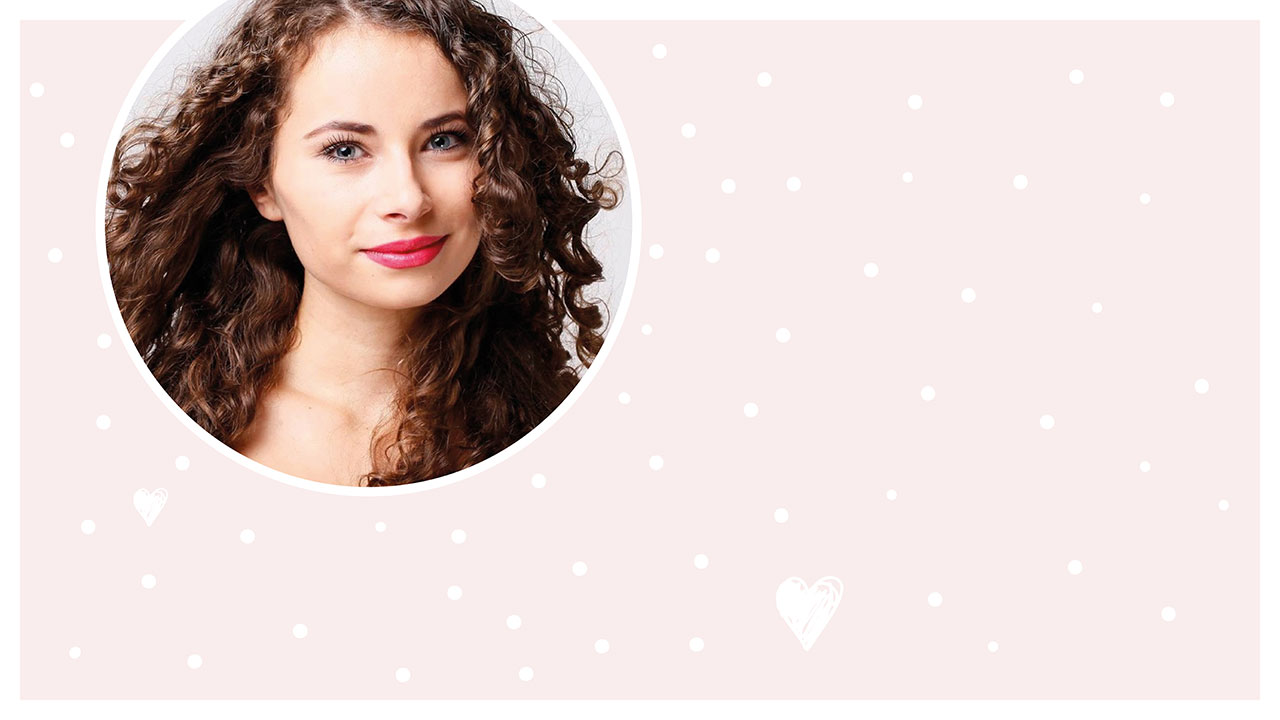
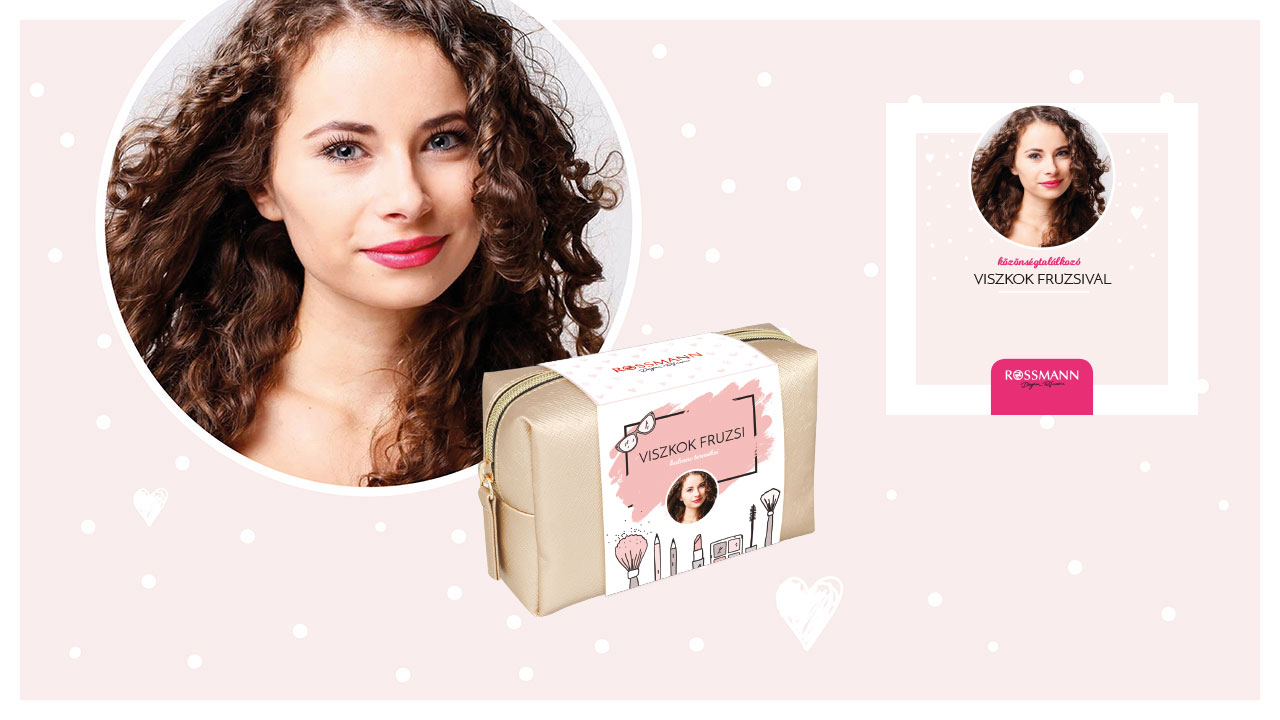
...

Changed region(s): [[0.375, 0.4278, 0.6562, 0.8556], [0.75, 0.1222, 0.875, 0.3972], [0.75, 0.4889, 0.875, 0.5806]]

diff --git a/css/style.css b/css/style.css
@@ -20,10 +20,10 @@ h1 {
 h2 {
 	color: #fff;
 	font-family: 'Arbutus Slab', serif;
-	font-size: 2.9em;
+	font-size: 1.9em;
 	letter-spacing: 1px;
 	line-height: 1.3;
-	border-bottom: 2.5px solid #fff;
+	/*border-bottom: 2.5px solid #fff;*/
 }
 
 h3 {
@@ -424,11 +424,15 @@ strong,
 	height: 300px;
 	text-align: center;
 	width: 100%;
+	position: relative;
 }
 
 .case-title {
-	display: inline-block;
-	margin-top: 25%;
+	background-color: rgba(1, 1, 1, .5);
+	bottom: 24px;
+	left: 0;
+	padding: 5px;
+	position: absolute;
 }
 
 .case a {
@@ -447,7 +451,7 @@ strong,
 .case-0,
 .case-1 {
 	background-color: #FFDC1D;
-	background: url(../img/pinterest-header.jpg) center center no-repeat;
+	background: url(../img/pinterest-header.jpg) top right no-repeat;
 	background-size: cover;
 }
 
@@ -457,19 +461,19 @@ strong,
 
 .case-2 {
 	background-color: #FF03B6;
-	background: url(../img/vf.jpg) top center no-repeat;
+	background: url(../img/vf.jpg) top left no-repeat;
 	background-size: cover;
 }
 
 .case-3 {
 	background-color: #B21485;
-	background: url(../img/sysdev-logo3.jpg) center center no-repeat;
+	background: url(../img/sysdev-logo3.jpg) top left no-repeat;
 	background-size: cover;
 }
 
 .case-4 {
 	background-color: #17CACC;
-	background: url(../img/kentaur-logo.jpg) center center no-repeat;
+	background: url(../img/kentaur-logo.jpg) top center no-repeat;
 	background-size: cover;
 }
 
@@ -816,12 +820,18 @@ strong,
 		margin: 0 auto 10px;
 	}
 
-	.case-title {
-		margin-top: 20%;
-	}
-
 	.case-img {
 		height: auto;
+	}
+
+	.case-0,
+	.case-2,
+	.case-3 {
+		background-position: top center;
+	}
+
+	.case-title {
+		font-size: 2.9em;
 	}
 
 	/*REFS > 750*/
@@ -937,17 +947,16 @@ strong,
 		background-color: transparent;
 	}
 
-	.case-title {
-		margin-top: 350px;
+	.case-0,
+	.case-2,
+	.case-3 {
+		height: 100vh;
+		width: 100vw;
 	}
 
 	.case-1 {
 		height: 100vh;
 		width: 100vw;
-	}
-
-	.case-2 {
-		background: url(../img/vf.jpg) top left no-repeat;
 	}
 
 	/*REFS > */

diff --git a/js/translate.js b/js/translate.js
@@ -11,6 +11,9 @@ var arrLang = {
     'act-head-3': 'Nagy adatmennyiségből készítünk kiadványokat',
     'act-text-3': 'Átgondolt és kipróbált automatizálási folyamataink segítségével pontosan és gyorsan készítünk kiadványokat.',
     'recent-work': 'a legújabbak',
+    'case1': 'Pinterest – illusztráció, display',
+    'case2': 'Viszkok Fruzsi – minikampány',
+    'case3': 'System Developers – logó redesign',
     'team-head': 'a csapat',
     'guszti': 'Szakács Gusztáv Bálint',
     'guszti-tags': '#can-do-attitude #kertészkedés #kommunikáció #felhasználóközpontú #design',
@@ -45,6 +48,9 @@ var arrLang = {
     'act-head-3': 'Schneller, leichter, zuverlässiger',
     'act-text-3': 'Mit unseren erprobten Tools zur automatisierten Medienproduktion, können wir Ihre Prospekte, Kataloge oder Preislisten zukünftig schneller und effizienter produzieren',
     'recent-work': 'aktuell',
+    'case1': 'Pinterest – Illustration, Display',
+    'case2': 'Viszkok Fruzsi – Mini-Kampagne',
+    'case3': 'System Developers – Logo redesign',
     'team-head': 'Das Team',
     'guszti': 'Gusztav Balint Szakacs',
     'guszti-tags': '#can-do-attitude #Gartenarbeit #Kommunikation #Benutzerorientiert #design',
@@ -79,6 +85,9 @@ var arrLang = {
     'act-head-3': 'We create stunnig layouts from big data',
     'act-text-3': 'Átgondolt és kipróbált automatizálási folyamataink segítségével pontosan és gyorsan készítünk kiadványokat.',
     'recent-work': 'recents',
+    'case1': 'Pinterest – illustration, display',
+    'case2': 'Viszkok Fruzsi – mini campaign',
+    'case3': 'System Developers – logo redesign',
     'team-head': 'the team',
     'guszti': 'Gusztav Balint Szakacs',
     'guszti-tags': '#can-do-attitude #gardening #communication #user-centered #design',

diff --git a/index.html b/index.html
@@ -49,9 +49,9 @@
 					<div id="toggleOn" class="toggle-on"><span class="lang" key="toggle-menu"></span></div>
 
 					<ul id="menu" class="menu">
-						<ul class="main-menu">
+						<!-- <ul class="main-menu">
 							<li><a href="work.html" class="menuitem lang" key="menuitem-2">munkáink</a></li>
-						</ul>
+						</ul> -->
 
 						<ul class="langchange">
 							<li>
@@ -114,39 +114,39 @@
 
 			<div class="cases">
 				<section class="case case-0">
-					<a href="pinterest.html">
+					<!-- <a href="pinterest.html"> -->
 						<h2 class="case-title lang" key="case1">
-							Pinterest
+							Pinterest – illusztráció, display
 						</h2>
 
-						<p class="case-subtitle">
+						<!-- <p class="case-subtitle">
 							illusztráció, display
-						</p>
-					</a>
+						</p> -->
+					<!-- </a> -->
 				</section>
 
 				<section class="case case-2">
-					<a href="vf.html">
+					<!-- <a href="vf.html"> -->
 						<h2 class="case-title lang" key="case2">
-							Viszkok Fruzsi
+							Viszkok Fruzsi – minikampány
 						</h2>
 
-						<p class="case-subtitle">
+						<!-- <p class="case-subtitle">
 							kedvenc Rossmann termékei
-						</p>
-					</a>
+						</p> -->
+					<!-- </a> -->
 				</section>
 
 				<section class="case case-3">
-					<a href="#">
-						<h2 class="case-title lang" key="case1">
-							System Developers
+					<!-- <a href="#"> -->
+						<h2 class="case-title lang" key="case3">
+							System Developers – logó redesign
 						</h2>
 
-						<p class="case-subtitle">
+						<!-- <p class="case-subtitle">
 							logó redesign
-						</p>
-					</a>
+						</p> -->
+					<!-- </a> -->
 				</section>
 			</div>
 		</section>
